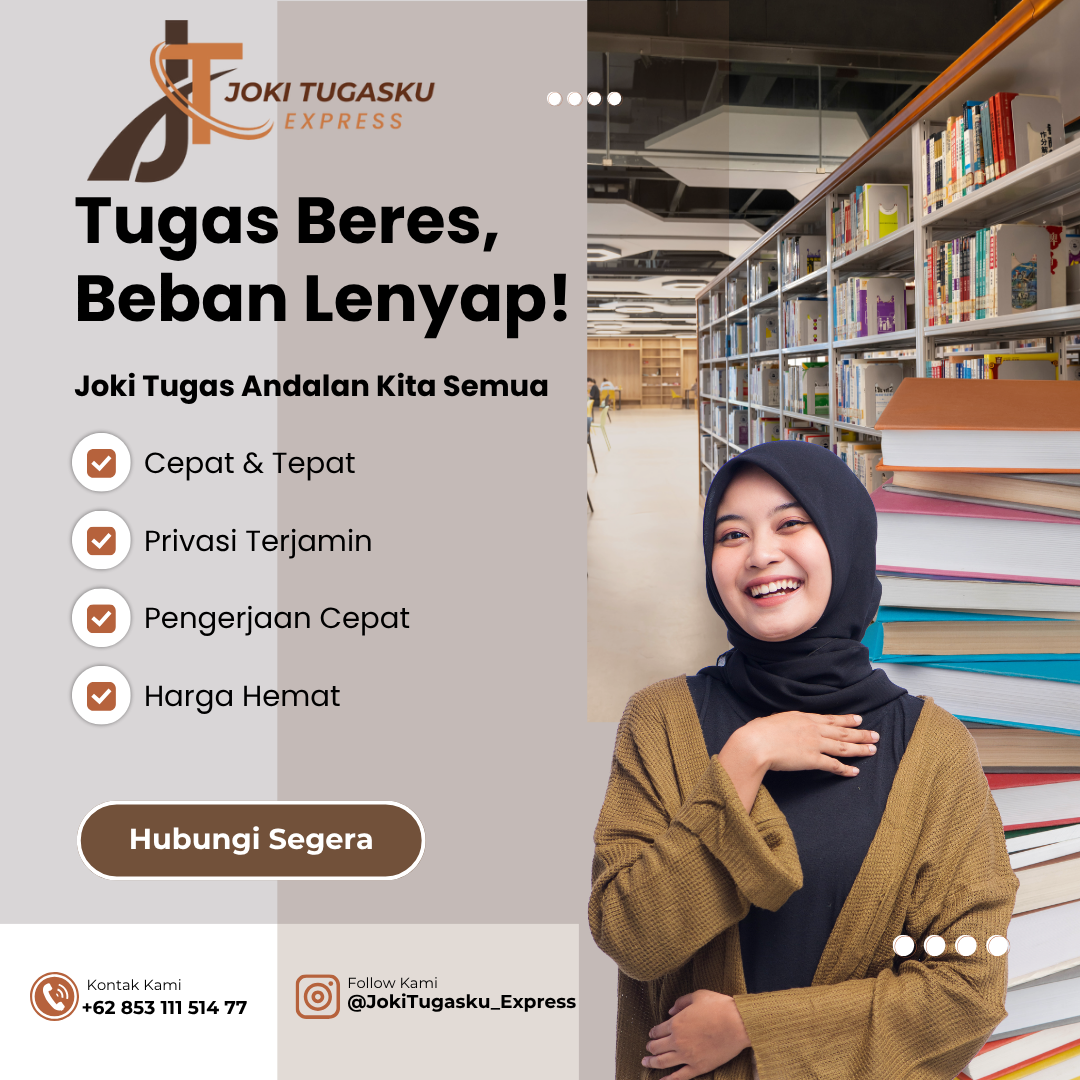
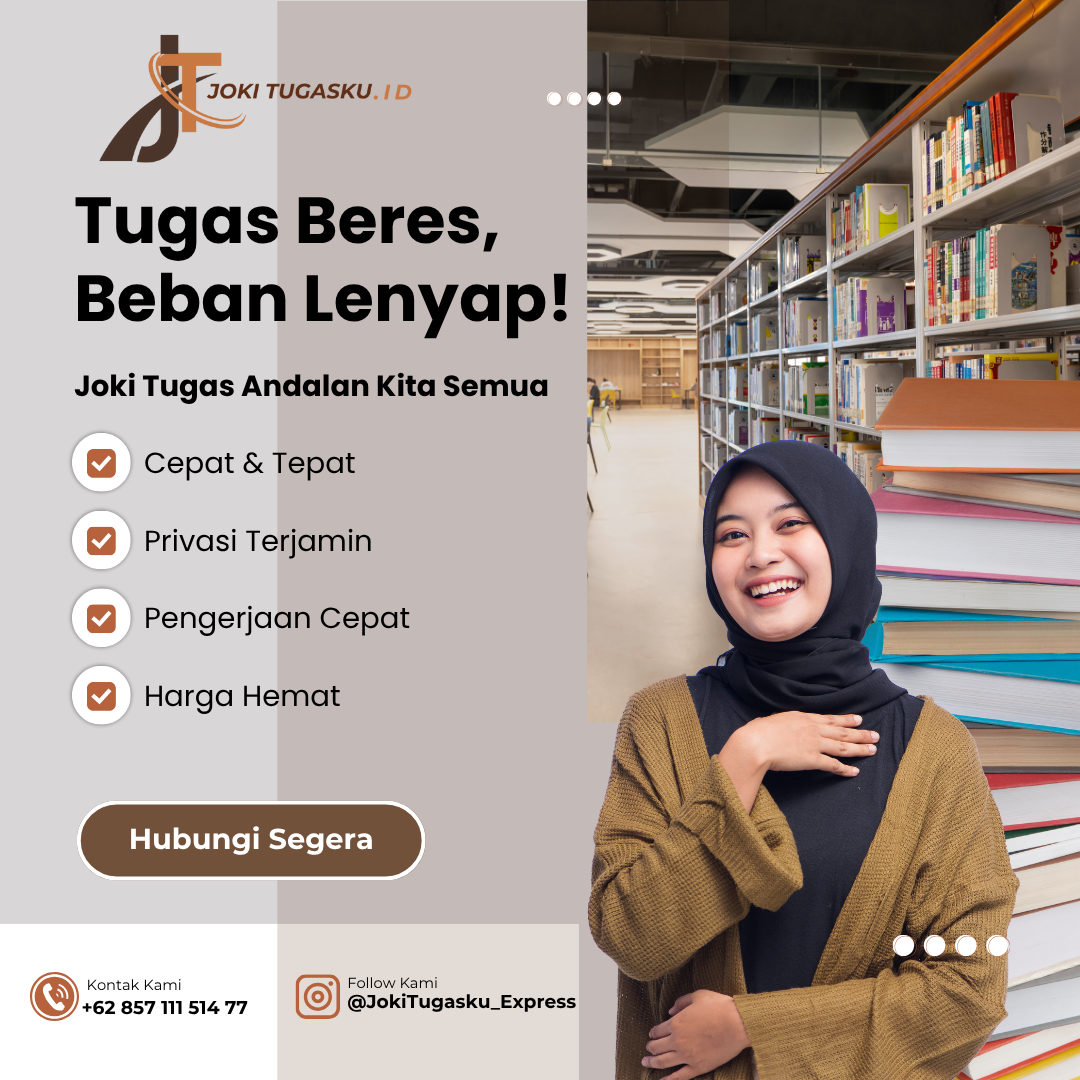
Penyempurnaan tapi belum sempurna

Changed region(s): [[0.0611, 0.0, 0.3972, 0.1833], [0.1222, 0.9167, 0.1528, 0.9472]]

diff --git a/src/components/Product.vue b/src/components/Product.vue
@@ -8,7 +8,7 @@
       style="background: linear-gradient(135deg, #4B352A 0%, #CA7842 100%);"
     >
       <svg class="absolute inset-0 w-full h-full" viewBox="0 0 1440 320" preserveAspectRatio="none">
-        <path fill="#4B352A" fill-opacity="0.1" d="M0,224L48,208C96,192,192,160,288,165.3C384,171,480,213,576,213.3C672,213,768,171,864,176C960,181,1056,235,1152,240C1248,245,1344,203,1392,181.3L1440,160L1440,320L1392,320C1344,320,1248,320,1152,320C1056,320,960,320,864,320C768,320,672,320,576,320C480,320,384,320,288,320C192,320,96,320,48,320L0,320Z"></path>
+        <path fill="#4B352A" fill-opacity="0.1" d="M0,224L48,208C96,192,192,160,288,165.3C384,171,480,213,576,213.3C672,160,768,224,864,240C960,256,1056,224,1152,197.3C1248,171,1344,149,1392,138.7L1440,128L1440,320L1392,320C1344,320,1248,320,1152,320C1056,320,960,320,864,320C768,320,672,320,576,320C480,320,384,320,288,320C192,320,96,320,48,320L0,320Z"></path>
         <path fill="#CA7842" fill-opacity="0.05" d="M0,160L48,170.7C96,181,192,203,288,192C384,181,480,139,576,149.3C672,160,768,224,864,240C960,256,1056,224,1152,197.3C1248,171,1344,149,1392,138.7L1440,128L1440,320L1392,320C1344,320,1248,320,1152,320C1056,320,960,320,864,320C768,320,672,320,576,320C480,320,384,320,288,320C192,320,96,320,48,320L0,320Z"></path>
       </svg>
     </div>
@@ -28,41 +28,40 @@
           v-for="service in services"
           :key="service.id"
           class="relative rounded-3xl p-8 shadow-xl hover:shadow-2xl transition duration-500 transform hover:-translate-y-2
-                 bg-white/15 backdrop-blur-lg border border-white/20 overflow-hidden group cursor-pointer"
+                 bg-white backdrop-blur-md border border-white/20 overflow-hidden group cursor-pointer"
         >
-          <div class="absolute inset-0 bg-gradient-to-br from-transparent to-[#CA7842]/20 opacity-0 group-hover:opacity-100 transition-opacity duration-500 z-0"></div>
+          <div class="absolute inset-0 bg-gradient-to-br from-transparent to-[#CA7842]/10 opacity-0 group-hover:opacity-100 transition-opacity duration-500 z-0"></div>
 
           <figure class="flex justify-center mb-6 relative z-10">
-            <img
-              :src="getImageUrl(service.image)"
-              :alt="service.name"
-              class="h-24 w-24 object-contain drop-shadow-lg filter group-hover:drop-shadow-xl transition-all duration-300"
-              loading="lazy"
+            <Icon
+              :icon="service.icon"
+              class="h-24 w-24 text-[#CA7842] drop-shadow-lg filter group-hover:drop-shadow-xl transition-all duration-300"
             />
           </figure>
 
-          <h3 class="text-2xl font-bold text-white mb-3 text-center relative z-10">
+          <h3 class="text-2xl font-bold text-gray-900 mb-3 text-center relative z-10">
             {{ service.name }}
           </h3>
-          <p class="text-base text-white/80 text-center mb-6 relative z-10">
+          <p class="text-base text-gray-700 text-center mb-6 relative z-10">
             {{ service.description }}
           </p>
 
           <footer class="flex justify-between items-center relative z-10">
-            <span class="text-white font-extrabold text-lg tracking-wide">
+            <span v-if="!service.upcoming" class="text-gray-900 font-extrabold text-lg tracking-wide">
               {{ formatHarga(service.price) }}
             </span>
+             <span v-else class="text-gray-900 font-bold text-lg tracking-wide">
+              Segera Hadir!
+            </span>
 
-            <a
+            <button
               v-if="!service.upcoming"
-              :href="`https://wa.me/6281234567890?text=Halo%2C%20saya%20tertarik%20dengan%20layanan%20${encodeURIComponent(service.name)}.`"
-              target="_blank"
-              rel="noopener noreferrer"
+              @click="openOrderModal(service)"
               class="text-base bg-[#CA7842] text-white px-6 py-3 rounded-xl font-semibold
                      hover:bg-[#e08953] transition-all duration-300 transform hover:scale-105 shadow-md"
             >
               Pesan Sekarang
-            </a>
+            </button>
           </footer>
 
           <div
@@ -75,45 +74,102 @@
         </li>
       </ul>
     </div>
+
+    <div v-if="showOrderModal" class="fixed inset-0 bg-gray-900 bg-opacity-75 flex items-center justify-center z-50 p-4">
+      <div class="bg-white rounded-lg shadow-xl p-8 max-w-md w-full relative">
+        <button
+          @click="closeOrderModal"
+          class="absolute top-4 right-4 text-gray-500 hover:text-gray-700 text-2xl"
+        >
+          &times;
+        </button>
+        <h3 class="text-2xl font-bold text-gray-900 mb-6 text-center">
+          Pesan Layanan: {{ selectedService.name }}
+        </h3>
+
+        <form @submit.prevent="sendWhatsAppOrder">
+          <div class="mb-4">
+            <label for="name" class="block text-gray-700 text-sm font-bold mb-2">Nama Anda:</label>
+            <input
+              type="text"
+              id="name"
+              v-model="orderForm.customerName"
+              class="shadow appearance-none border rounded w-full py-2 px-3 text-gray-700 leading-tight focus:outline-none focus:shadow-outline"
+              placeholder="Masukkan nama Anda"
+              required
+            />
+          </div>
+          <div class="mb-6">
+            <label for="taskDetail" class="block text-gray-700 text-sm font-bold mb-2">Detail Singkat Tugas:</label>
+            <textarea
+              id="taskDetail"
+              v-model="orderForm.taskDetail"
+              rows="4"
+              class="shadow appearance-none border rounded w-full py-2 px-3 text-gray-700 leading-tight focus:outline-none focus:shadow-outline"
+              placeholder="Contoh: Tugas makalah Biologi tentang fotosintesis, deadline besok jam 5 sore."
+              required
+            ></textarea>
+          </div>
+          <div class="flex justify-end gap-4">
+            <button
+              type="button"
+              @click="closeOrderModal"
+              class="bg-gray-300 text-gray-800 px-6 py-2 rounded-lg font-semibold hover:bg-gray-400 transition-colors duration-300"
+            >
+              Batal
+            </button>
+            <button
+              type="submit"
+              class="bg-[#CA7842] text-white px-6 py-2 rounded-lg font-semibold hover:bg-[#e08953] transition-colors duration-300"
+            >
+              Kirim Pesanan ke WhatsApp
+            </button>
+          </div>
+        </form>
+      </div>
+    </div>
   </section>
 </template>
 
 <script setup>
+import { ref, reactive } from 'vue'; // Import ref dan reactive
+import { Icon } from '@iconify/vue';
+
 const services = [
   {
     id: 1,
     name: 'Tugas Makalah & Essay',
     description: 'Pengerjaan makalah, esai ilmiah, resume artikel, dan lainnya secara profesional.',
     price: 30000,
-    image: 'essay.svg'
+    icon: 'ph:notepad-fill'
   },
   {
     id: 2,
     name: 'Presentasi PowerPoint',
     description: 'Slide presentasi yang menarik, informatif, dan siap disajikan.',
     price: 25000,
-    image: 'presentation.svg'
+    icon: 'carbon:presentation-file'
   },
   {
     id: 3,
     name: 'Tugas Coding / Pemrograman',
     description: 'Penyelesaian tugas Java, Python, C++, hingga pengembangan web.',
-    price: 50000,
-    image: 'coding.svg'
+    icon: 'mdi:code-braces',
+    upcoming: true
   },
   {
     id: 4,
     name: 'Joki Kuis / Ujian Online',
     description: 'Bantuan pengerjaan soal kuis atau ujian daring (dengan jadwal & persetujuan).',
     price: 75000,
-    image: 'exam.svg'
+    icon: 'fluent:quiz-new-24-filled'
   },
   {
     id: 5,
     name: 'Pembuatan Laporan Praktikum',
     description: 'Laporan lengkap praktikum biologi, kimia, fisika, teknik, dll.',
     price: 40000,
-    image: 'lab.svg',
+    icon: 'mdi:microscope',
     upcoming: true
   },
   {
@@ -121,14 +177,19 @@ const services = [
     name: 'Desain Infografis / Canva',
     description: 'Konten visual menarik untuk tugas desain, promosi, dan presentasi yang memukau.',
     price: 20000,
-    image: 'canva.svg'
+    icon: 'mdi:palette'
   }
 ];
 
-function getImageUrl(filename) {
-  // Pastikan path ke aset gambar sudah benar sesuai struktur proyek Anda
-  return new URL(`../assets/${filename}`, import.meta.url).href;
-}
+const whatsappNumber = '6285711151477';
+
+// State untuk Modal
+const showOrderModal = ref(false);
+const selectedService = ref({}); // Untuk menyimpan layanan yang dipilih saat modal dibuka
+const orderForm = reactive({ // Menggunakan reactive untuk form input
+  customerName: '',
+  taskDetail: ''
+});
 
 function formatHarga(value) {
   return `Mulai dari ${new Intl.NumberFormat('id-ID', {
@@ -137,9 +198,37 @@ function formatHarga(value) {
     minimumFractionDigits: 0
   }).format(value).replace(',00', ',-')}`;
 }
+
+// Fungsi untuk membuka modal
+function openOrderModal(service) {
+  selectedService.value = service;
+  showOrderModal.value = true;
+  // Reset form setiap kali modal dibuka
+  orderForm.customerName = '';
+  orderForm.taskDetail = '';
+}
+
+// Fungsi untuk menutup modal
+function closeOrderModal() {
+  showOrderModal.value = false;
+}
+
+// Fungsi untuk mengirim pesan WhatsApp setelah form diisi
+function sendWhatsAppOrder() {
+  const { customerName, taskDetail } = orderForm;
+  const serviceName = selectedService.value.name;
+
+  let message = `Halo Joki Tugas Express Mu!\n\n`;
+  message += `Saya *${customerName}* tertarik untuk memesan layanan *${serviceName}*.\n`;
+  message += `Berikut detail singkat tugas saya:\n"${taskDetail}"\n\n`;
+  message += `Mohon informasinya lebih lanjut ya, terima kasih!`;
+
+  const whatsappUrl = `https://wa.me/${whatsappNumber}?text=${encodeURIComponent(message)}`;
+  window.open(whatsappUrl, '_blank'); // Buka di tab baru
+  closeOrderModal(); // Tutup modal setelah pesan dikirim
+}
 </script>
 
 <style scoped>
-/* Anda bisa menambahkan gaya kustom di sini jika diperlukan,
-   misalnya untuk animasi atau responsivitas yang lebih kompleks. */
+/* Tidak ada perubahan pada bagian <style scoped> */
 </style>

diff --git a/src/ui/HeroCard.vue b/src/ui/HeroCard.vue
@@ -1,0 +1,96 @@
+<template>
+  <section class="hero-section py-16 md:py-24 bg-gradient-to-br from-white via-white to-gray-50">
+    <div class="max-w-7xl mx-auto px-6 relative z-10">
+      <div class="hero-card bg-white rounded-lg shadow-xl p-8 md:p-12 lg:flex lg:items-center lg:justify-between lg:space-x-12">
+        <div class="flex-1 text-center lg:text-left mb-10 lg:mb-0">
+          <div class="mb-6">
+            <img src="/path/to/your/jokitugasku_logo.svg" alt="JokiTugasku.ID Logo" class="h-16 mx-auto lg:mx-0">
+          </div>
+
+          <h1 class="text-4xl md:text-5xl font-extrabold text-gray-900 leading-tight mb-4">
+            Tugas Beres, <br class="hidden sm:inline"> Beban Lenyap!
+          </h1>
+
+          <p class="text-xl md:text-2xl text-gray-700 mb-8 font-semibold">
+            Joki Tugas Andalan Kita Semua
+          </p>
+
+          <ul class="space-y-4 mb-10 text-lg">
+            <li class="flex items-center justify-center lg:justify-start text-gray-800">
+              <Icon icon="ph:check-circle-fill" class="h-6 w-6 text-[#CA7842] mr-3 flex-shrink-0" />
+              <span>Cepat & Tepat</span>
+            </li>
+            <li class="flex items-center justify-center lg:justify-start text-gray-800">
+              <Icon icon="ph:check-circle-fill" class="h-6 w-6 text-[#CA7842] mr-3 flex-shrink-0" />
+              <span>Privasi Terjamin</span>
+            </li>
+            <li class="flex items-center justify-center lg:justify-start text-gray-800">
+              <Icon icon="ph:check-circle-fill" class="h-6 w-6 text-[#CA7842] mr-3 flex-shrink-0" />
+              <span>Pengerjaan Cepat</span>
+            </li>
+            <li class="flex items-center justify-center lg:justify-start text-gray-800">
+              <Icon icon="ph:check-circle-fill" class="h-6 w-6 text-[#CA7842] mr-3 flex-shrink-0" />
+              <span>Harga Hemat</span>
+            </li>
+          </ul>
+
+          <button
+            @click="scrollToProduct"
+            class="inline-block bg-[#4B352A] hover:bg-[#6a4f3e] text-white font-bold py-3 px-8 rounded-xl
+                   transition-all duration-300 transform hover:scale-105 shadow-lg text-xl"
+          >
+            Hubungi Segera
+          </button>
+        </div>
+
+        <div class="flex-1 flex justify-center lg:justify-end">
+          <img src="/path/to/your/optimized_hero_image.webp" alt="Ilustrasi mahasiswa senang" class="max-w-full h-auto rounded-lg shadow-md lg:max-h-[500px] object-cover">
+          </div>
+      </div>
+
+      <div class="mt-12 flex flex-wrap gap-6 justify-center text-gray-700">
+        <div class="flex items-center">
+          <Icon icon="ph:phone-fill" class="h-6 w-6 text-[#CA7842] mr-2" />
+          <span class="font-semibold">Kontak Kami:</span> +62 857 111 514 77
+        </div>
+        <a href="https://instagram.com/JokiTugasKu_Express" target="_blank" rel="noopener noreferrer" class="flex items-center hover:text-[#CA7842] transition-colors">
+          <Icon icon="mdi:instagram" class="h-6 w-6 text-[#CA7842] mr-2" />
+          <span class="font-semibold">Follow Kami:</span> @JokiTugasKu_Express
+        </a>
+      </div>
+    </div>
+  </section>
+</template>
+
+<script setup>
+import { Icon } from '@iconify/vue';
+// Anda mungkin perlu menambahkan ref dan fungsi-fungsi lain jika Anda ingin menggunakan modal atau scroll
+// import { ref } from 'vue';
+
+// const showModal = ref(false); // Jika ingin memunculkan modal
+// const selectedServiceName = ref(''); // Jika ingin memunculkan modal
+
+function scrollToProduct() {
+  // Fungsi untuk scroll ke bagian layanan Anda
+  const productSection = document.getElementById('product');
+  if (productSection) {
+    productSection.scrollIntoView({ behavior: 'smooth' });
+  }
+}
+
+// Jika Anda memutuskan untuk menggunakan modal untuk "Hubungi Segera",
+// maka fungsi openModal dan sendWhatsAppMessage dari jawaban sebelumnya akan relevan di sini.
+// Contoh:
+// function openModal(serviceName) {
+//   selectedServiceName.value = serviceName;
+//   showModal.value = true;
+//   // Reset form setiap kali modal dibuka
+//   // form.value.nama = '';
+//   // form.value.detailTugas = '';
+// }
+// function sendWhatsAppMessage() { /* ... */ }
+</script>
+
+<style scoped>
+/* Tidak ada perubahan pada bagian <style scoped> */
+</style>

diff --git a/src/components/Hero.vue b/src/components/Hero.vue
@@ -13,7 +13,7 @@
         </p>
         <div class="flex flex-col sm:flex-row justify-center lg:justify-start gap-5">
           <a
-            href="https://wa.me/6281234567890"
+            href="https://wa.me/6285711151477"
             target="_blank"
             class="px-8 py-4 bg-green-500 text-white text-lg font-bold rounded-full shadow-lg hover:bg-green-600 transition-all duration-300 transform hover:scale-105 focus:outline-none focus:ring-4 focus:ring-green-300"
           >
@@ -42,7 +42,7 @@
 </template>
 
 <script setup>
-// Script section remains clean, no extra logic needed for this design.
+
 </script>
 
 <style scoped>

diff --git a/src/components/Navbar.vue b/src/components/Navbar.vue
@@ -34,7 +34,7 @@
             </li>
           </ul>
           <a
-            href="https://wa.me/6285311151477?text=Halo%20ka%20admin%20saya%20mau%20tanya-tanya%20soal%20tugas%20saya%20di%20JokiTugasku%20express%20dong"
+            href="https://wa.me/6285711151477?text=Halo%20ka%20admin%20saya%20mau%20tanya-tanya%20soal%20tugas%20saya%20di%20JokiTugasku%20express%20dong"
             class="px-6 py-2 bg-[#4B352A] text-white rounded-full text-base font-semibold hover:bg-blue-700 transition-colors duration-300 ease-in-out shadow-md hover:shadow-lg"
           >
             Hubungi Kami

diff --git a/index.html b/index.html
@@ -2,7 +2,7 @@
 <html lang="en">
   <head>
     <meta charset="UTF-8" />
-    <link rel="icon" type="image/svg+xml" href="/vite.svg" />
+    <link rel="icon" type="image/svg+xml" href="/src/assets/jtID.png" />
     <meta name="viewport" content="width=device-width, initial-scale=1.0" />
     <title>Joki Tugasku Express</title>
   </head>
